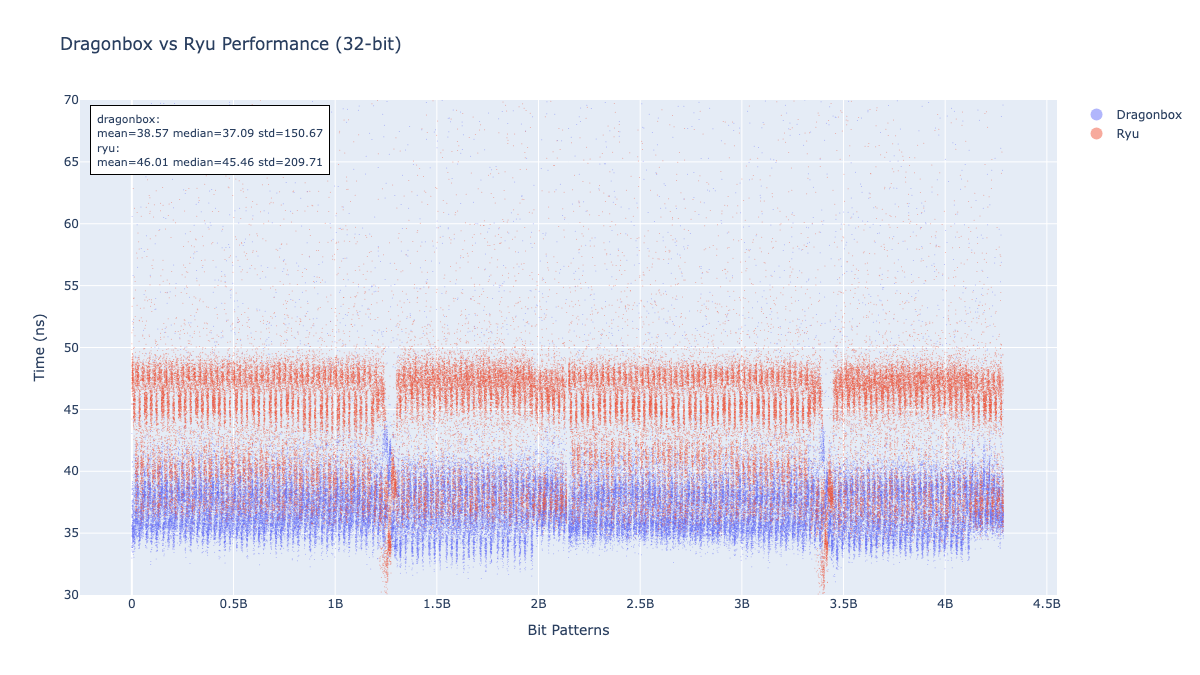
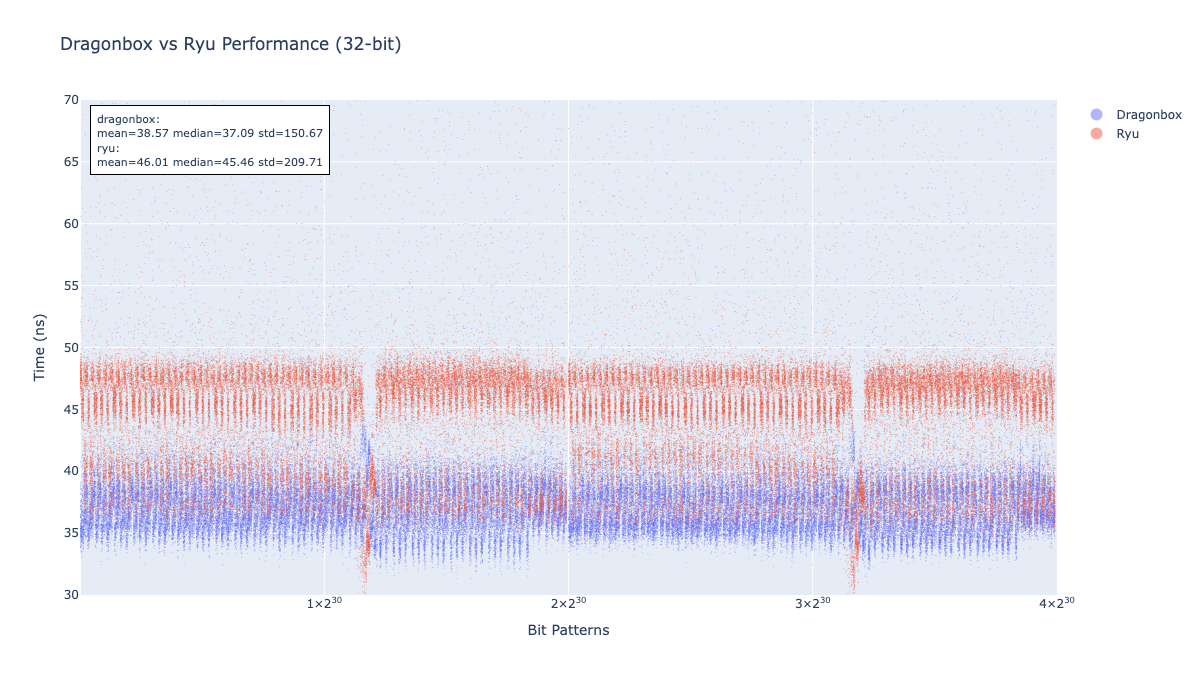
Update x-axis labels

diff --git a/src/bench/plot.py b/src/bench/plot.py
@@ -53,9 +53,15 @@ for bit_size in [32, 64]:
         xaxis_title="Bit Patterns",
         yaxis_title="Time (ns)",
         legend=dict(itemsizing="constant"),
-        yaxis=dict(range=[30, 70])
+        yaxis=dict(range=[30, 70]),
+        xaxis=dict(
+            range=[0, 2**bit_size],
+            tickvals=[i*2**(bit_size-2) for i in range(1, 4+1)],
+            ticktext=[f"{i}×2<sup>{bit_size-2}</sup>" for i in range(1, 4+1)],
+        )
     )
     fig.write_image(output_file, width=1200, height=675)
+
 
 for bit_size in [32, 64]:
     csv_file = f"random_digits{bit_size}.csv"
@@ -124,6 +130,7 @@ for bit_size in [32, 64]:
         xaxis_title="Number of Digits",
         yaxis_title="Time (ns)",
         legend=dict(itemsizing="constant"),
-        yaxis=dict(range=[30, 70])
+        yaxis=dict(range=[30, 70]),
+        xaxis=dict(range=[1, 17]),
     )
     fig.write_image(output_file, width=1200, height=675)
